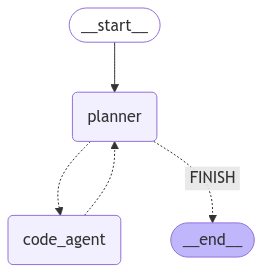
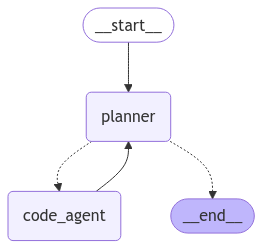
Enhance RichLogger with configurable log directory and improved logging format

diff --git a/src/main.py b/src/main.py
@@ -39,38 +39,68 @@ theme = Theme({
 })
 
 class RichLogger:
-    def __init__(self, name: str = "app"):
+    def __init__(self, name: str = "app", log_dir: str = "logs"):
         # Initialize rich console
         self.console = Console(theme=theme)
         install_rich_traceback()
         
-        # Set up basic logging
-        self.log_path = Path("logs")
+        # Set up log directory
+        self.log_path = Path(log_dir)
         self.log_path.mkdir(exist_ok=True)
         
         # Create logger
         self.logger = logging.getLogger(name)
         self.logger.setLevel(logging.INFO)
         
-        # Add file handler
-        fh = logging.FileHandler(self.log_path / f"{name}.log")
+        # Remove any existing handlers
+        self.logger.handlers = []
+        
+        # Create file handler with timestamp
+        # timestamp = datetime.now().strftime("%Y%m%d_%H%M%S")
+        log_file = self.log_path / f"{name}.log"
+        
+        # Add file handler with formatter
+        fh = logging.FileHandler(log_file, encoding='utf-8')
         fh.setLevel(logging.INFO)
+        formatter = logging.Formatter(
+            '%(asctime)s | %(levelname)-8s | %(message)s',
+            datefmt='%Y-%m-%d %H:%M:%S'
+        )
+        fh.setFormatter(formatter)
         self.logger.addHandler(fh)
+        
+        # Keep track of the current log file
+        self.current_log_file = log_file
+        
+        self.info(f"Logging initialized. Log file: {log_file}")
+
+    def _format_for_file(self, data: Any) -> str:
+        """Format data for file logging"""
+        if isinstance(data, dict):
+            return json.dumps(data, indent=2, default=str)
+        return str(data)
 
     def print_json(self, data: Any, title: Optional[str] = None):
         """Pretty print JSON-serializable data"""
         if title:
             self.console.print(f"\n[bold]{title}[/bold]")
             self.console.print("─" * 40)
+            self.logger.info(f"=== {title} ===")
         
         try:
-            # Try to make it JSON-serializable first
+            # Console output
             json_str = json.dumps(data, indent=2, default=str)
             parsed = json.loads(json_str)
             pprint(parsed, expand_all=True)
+            
+            # File output
+            self.logger.info(f"\n{json_str}")
         except Exception as e:
-            self.console.print(f"[error]Error formatting data: {str(e)}[/error]")
-            pprint(data)  # Fallback to regular pretty print
+            error_msg = f"Error formatting data: {str(e)}"
+            self.console.print(f"[error]{error_msg}[/error]")
+            self.logger.error(error_msg)
+            # Fallback to string representation for file
+            self.logger.info(str(data))
 
     def info(self, message: str):
         """Log info message"""
@@ -95,17 +125,30 @@ class RichLogger:
     def highlight(self, message: str):
         """Print highlighted message"""
         self.console.print(f"[highlight]{message}[/highlight]")
+        self.logger.info(f"HIGHLIGHT: {message}")
 
     def section(self, title: str):
         """Print section header"""
         self.console.rule(f"[bold]{title}")
+        self.logger.info(f"\n{'='*50}\n{title}\n{'='*50}")
 
     def dict(self, data: dict, title: Optional[str] = None):
         """Pretty print dictionary data"""
         if title:
             self.console.print(f"\n[bold]{title}[/bold]")
             self.console.print("─" * 40)
+            self.logger.info(f"\n=== {title} ===")
+        
+        # Console output
         pprint(data, expand_all=True)
+        
+        # File output - format dictionary as JSON string
+        formatted_data = self._format_for_file(data)
+        self.logger.info(f"\n{formatted_data}")
+
+    def get_log_file(self) -> Path:
+        """Get the current log file path"""
+        return self.current_log_file
 
 
 def load_file_contents(file_paths: List[str]) -> dict:
@@ -232,9 +275,13 @@ class PipelineState(TypedDict):
     response: str
     active_agent: str
     file_contents: dict
+    planner_feedback: str
 
 class Plan(BaseModel):
     steps: List[str] = Field(description="Numbered unique steps to complete the development task, in order")
+
+class Feedback(BaseModel):
+    message: str = Field(description="Feedback message from the planner")
 
 # - - - - - - - - - - - - - - - - - - - - - - - - - - - - - - - - - -
 # setting up the planning...
@@ -253,46 +300,56 @@ Provide a step-by-step plan.
 
 You've already completed the following steps:
 {past_steps}
-
-If necessary update your plan accordingly, but if is not necessary just continue with the next step.
 """
 
-CODE_AGENT_PROMPT = """You are a Next.js 14 and TypeScript expert. Write high-quality code.
-Current step: {current_step}
-Related file contents: {relevant_content}
+# CODE_AGENT_PROMPT = """You are a Next.js 14 and TypeScript expert. Write high-quality code.
+# Current step: {current_step}
+# Related file contents: {relevant_content}
 
-Write code following:
-1. Next.js 14 conventions (app router, server components, etc.)
-2. TypeScript best practices
-3. React patterns and hooks
-4. Clean code principles
+# Write code following:
+# 1. Next.js 14 conventions (app router, server components, etc.)
+# 2. TypeScript best practices
+# 3. React patterns and hooks
+# 4. Clean code principles
 
-Relevant context from vector store:
-{context}"""
-
+# Planner feedback: {planner_feedback}
+# """
 
 async def plan_step(state: PipelineState):
     """Create development plan"""
     logger.section("reasoning")
     logger.dict(state, "state")
     #
-    if state["current_plan"]:
+    if (len(state["current_plan"]) == 0) and (len(state["past_steps"]) == 0):
+        planning_chain = ChatPromptTemplate.from_template(PLANNER_PROMPT) | llm_gpt_4o_mini.with_structured_output(Plan)
+        plan = await planning_chain.ainvoke({
+            "input": state["messages"][-1].content,
+            "file_paths": list(state["file_contents"].keys()),
+            "past_steps": state["past_steps"]
+        })
         return {
-            "active_agent": "code_agent",
-            "current_plan": state["current_plan"]
+            "current_plan": plan.steps,
+            "active_agent": "code_agent"
         }
-    planning_chain = ChatPromptTemplate.from_template(PLANNER_PROMPT) | llm_gpt_4o_mini.with_structured_output(Plan)
-    plan = await planning_chain.ainvoke({
-        "input": state["messages"][-1].content,
-        "file_paths": list(state["file_contents"].keys()),
-        "past_steps": state["past_steps"]
-    })
-    if not plan.steps:
-        return {"active_agent": "FINISH"}
-    return {
-        "current_plan": plan.steps,
-        "active_agent": "code_agent"
-    }
+    elif len(state["past_steps"]) > 0:
+        planning_chain = ChatPromptTemplate.from_template(PLANNER_PROMPT) | llm_gpt_4o_mini.with_structured_output(Feedback)
+        plan = await planning_chain.ainvoke({
+            "input": f"""Evaluate the coherence between the user's query and the already completed steps.\n\nUSER QUERY: {state["messages"][-1].content}""",
+            "file_paths": list(state["file_contents"].keys()),
+            "past_steps": state["past_steps"]
+        })
+        return {
+            "planner_feedback": plan.message,
+            "active_agent": "code_agent"
+        }
+
+
+def should_end(state: PipelineState):
+    if (len(state["current_plan"]) == 0) and (len(state["past_steps"]) > 0): 
+        return END
+    else:
+        return "code_agent"
+
 
 async def code_agent_step(state: PipelineState):
     """Generate Next.js/TypeScript code"""
@@ -304,13 +361,18 @@ async def code_agent_step(state: PipelineState):
         [f"{i+1}. {step}" for i, step in enumerate(state["current_plan"])]
     )
     # rag
-    relevant_docs = vector_store.similarity_search(current_step_str, k=3)
+    relevant_docs = vector_store.similarity_search(current_step_str, k=1)
     context = "\n".join(doc.page_content for doc in relevant_docs)
     task = current_step[0]
     task_str = f"""
+    You are a Next.js 14 and TypeScript expert. Write high-quality code.
+
     For the following plan: {current_step_str} You are currently working on: {task}
+
     Below there is some context from the vector store that might help you to write the code:
     {context}
+
+    Below there is the feedback from the planner: {state["planner_feedback"]}
     """
     logger.info(task_str)
     #
@@ -332,23 +394,9 @@ workflow.add_node("planner", plan_step)
 workflow.add_node("code_agent", code_agent_step)
 # adding edges...
 workflow.add_edge(START, "planner")
+workflow.add_edge("code_agent", "planner")
 # adding conditional edges...
-workflow.add_conditional_edges(
-    "planner",
-    lambda x: x["active_agent"],
-    {
-        "code_agent": "code_agent",
-        "FINISH": END
-    }
-)
-workflow.add_conditional_edges(
-    "code_agent",
-    lambda x: x["active_agent"],
-    {
-        "planner": "planner",
-        # "FINISH": END
-    }
-)
+workflow.add_conditional_edges("planner", should_end, ["code_agent", END])
 
 # - - - - - - - - - - - - - - - - - - - - - - - - - - - - - - - - - -
 # compiling the workflow and displaying the graph...
@@ -374,6 +422,7 @@ async def run_pipeline(query: str, file_paths: List[str]):
         "execution_history": list(),
         "active_agent": "planner",
         "file_contents": file_contents,
+        "planner_feedback" : ""
     }
     print("running pipeline...")
     async for event in app.astream(initial_state):
@@ -387,7 +436,6 @@ async def run_pipeline(query: str, file_paths: List[str]):
 if __name__ == "__main__":
     query = """
     Does the code below have any issues?
-
     ```tsx
     // app/settings/page.tsx
     'use client';
